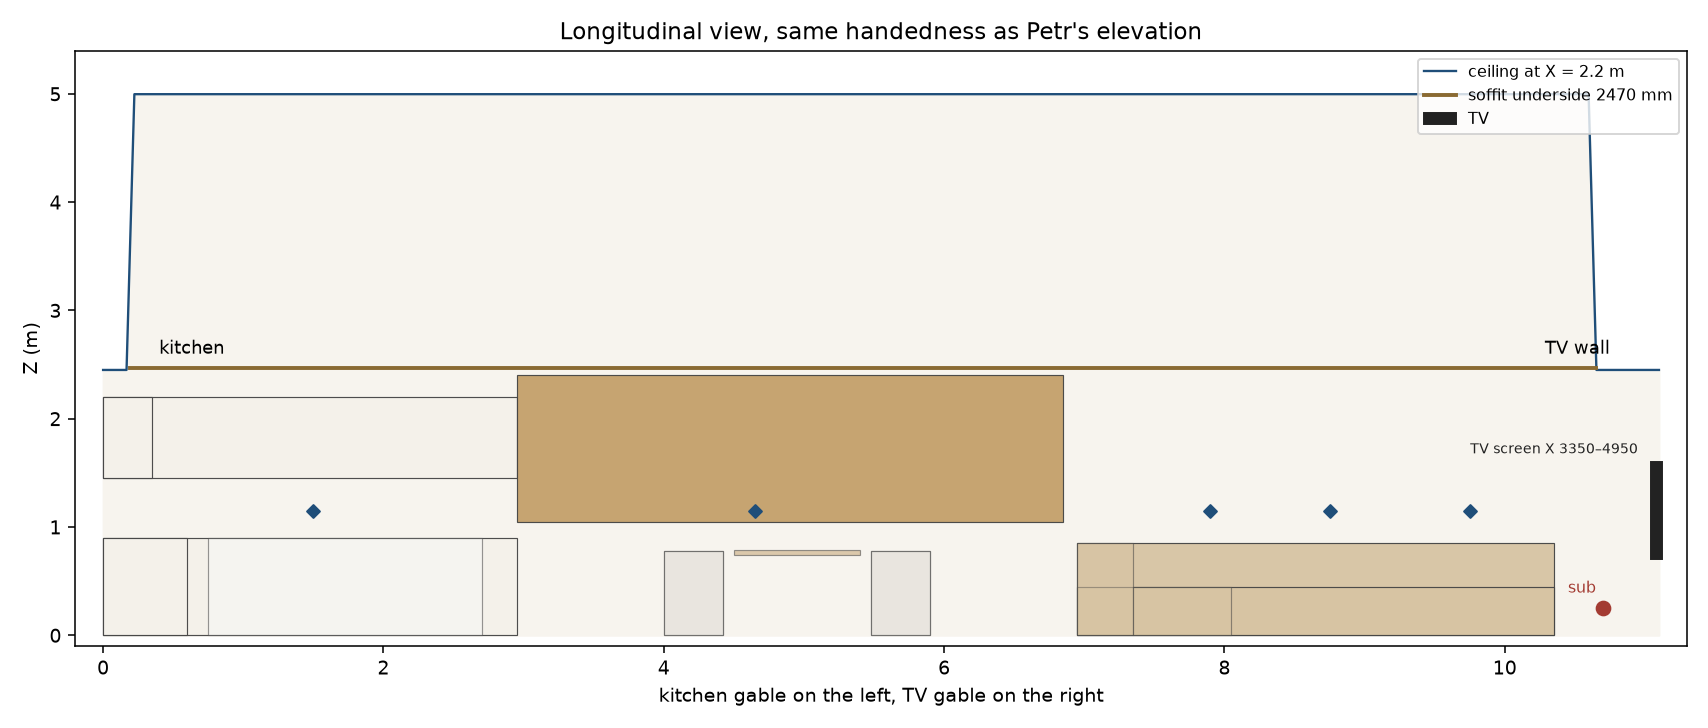
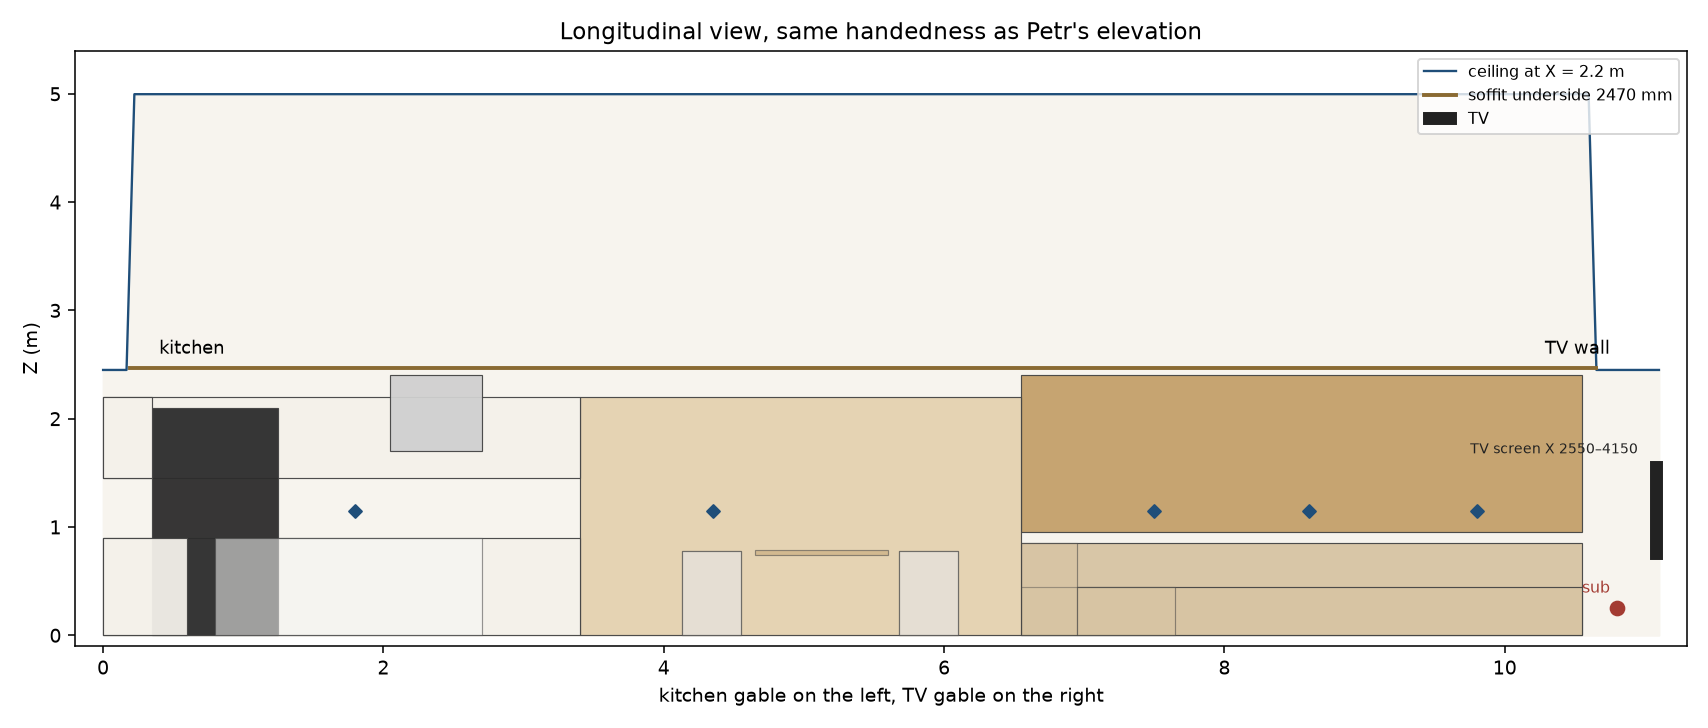
Match the obývák furniture to Petr's elevation.
The sofa is the 4.0 by 4.0 m L, with the lamella wall behind that run
and the sub in the cabinet-wall / TV-gable corner. No acoustic solve.

Changed region(s): [[0.2172, 0.5137, 0.9619, 0.8764], [0.0621, 0.544, 0.2172, 0.8764]]

diff --git a/src/blueprints/acoustics/roomwave/layout_review.py b/src/blueprints/acoustics/roomwave/layout_review.py
@@ -20,6 +20,9 @@ OUT = ROOT / "docs" / "acoustics"
 _FILL = {
     "sofa": "#d7c4a3",
     "kitchen": "#f4f1ea",
+    "tall": "#e4d2b0",
+    "fridge": "#2c2c2c",
+    "hood": "#d0d0d0",
     "island": "#f7f7f5",
     "table": "#c4a574",
     "chair": "#e6e2dc",
@@ -41,6 +44,7 @@ def write_sheets(dest: Path | None = None) -> list[Path]:
         _section_xz(shape, out / "layout-section-xz.png"),
         _section_long(shape, out / "layout-section-long.png"),
         _mesh_3d(shape, out / "layout-mesh-3d.png"),
+        _compare(shape, out / "layout-compare.png"),
     ]
     return paths
 
@@ -300,6 +304,154 @@ def _mesh_3d(shape: Shape, path: Path) -> Path:
     ax.view_init(elev=22, azim=-58)
     fig.tight_layout()
     fig.savefig(path, dpi=130)
+    plt.close(fig)
+    return path
+
+
+def _box_faces(box: Box) -> list[tuple[np.ndarray, np.ndarray, np.ndarray, np.ndarray]]:
+    x0, y0, z0, x1, y1, z1 = box.x, box.y, box.z, box.x1, box.y1, box.z1
+    p = lambda x, y, z: np.array([x, y, z], dtype=float)
+    return [
+        (p(x0, y0, z0), p(x1, y0, z0), p(x1, y1, z0), p(x0, y1, z0)),
+        (p(x0, y0, z1), p(x0, y1, z1), p(x1, y1, z1), p(x1, y0, z1)),
+        (p(x0, y0, z0), p(x0, y0, z1), p(x1, y0, z1), p(x1, y0, z0)),
+        (p(x0, y1, z0), p(x1, y1, z0), p(x1, y1, z1), p(x0, y1, z1)),
+        (p(x0, y0, z0), p(x0, y1, z0), p(x0, y1, z1), p(x0, y0, z1)),
+        (p(x1, y0, z0), p(x1, y0, z1), p(x1, y1, z1), p(x1, y1, z0)),
+    ]
+
+
+def _ceiling_quads(shape: Shape, x_near: float) -> list[tuple[np.ndarray, ...]]:
+    """Slope and soffit in front of the camera, split so the pitch reads."""
+    y0, y1 = shape.y_living, shape.y_kitchen
+    cuts = np.linspace(y0, y1, 8)
+    x0 = min(x_near, shape.x_false - 0.2)
+    quads = []
+    for a, b in zip(cuts, cuts[1:]):
+        z_near = shape.z_eave + (x0 / shape.x_false) * (shape.z_ridge - shape.z_eave)
+        quads.append((
+            np.array([x0, a, z_near]),
+            np.array([shape.x_false, a, shape.z_ridge]),
+            np.array([shape.x_false, b, shape.z_ridge]),
+            np.array([x0, b, z_near]),
+        ))
+        quads.append((
+            np.array([shape.x_false, a, shape.z_ridge]),
+            np.array([shape.x_soffit, a, shape.z_eave]),
+            np.array([shape.x_soffit, b, shape.z_eave]),
+            np.array([shape.x_false, b, shape.z_ridge]),
+        ))
+        quads.append((
+            np.array([shape.x_soffit, a, shape.z_eave]),
+            np.array([shape.x_soffit, a, shape.z_soffit]),
+            np.array([shape.x_soffit, b, shape.z_soffit]),
+            np.array([shape.x_soffit, b, shape.z_eave]),
+        ))
+        quads.append((
+            np.array([shape.x_soffit, a, shape.z_soffit]),
+            np.array([shape.x_wall, a, shape.z_soffit]),
+            np.array([shape.x_wall, b, shape.z_soffit]),
+            np.array([shape.x_soffit, b, shape.z_soffit]),
+        ))
+    return quads
+
+
+def _compare(shape: Shape, path: Path) -> Path:
+    """Wide view toward the cabinet wall, kitchen gable on the left, beside Petr's image."""
+    cam = np.array([0.35, 5.55, 1.35])
+    forward = np.array([1.0, 0.0, 0.12])
+    forward = forward / np.linalg.norm(forward)
+    up = np.array([0.0, 0.0, 1.0])
+    right = np.cross(forward, up)
+    right = right / np.linalg.norm(right)
+    up_cam = np.cross(right, forward)
+    fov = np.deg2rad(118.0)
+
+    def project(points: np.ndarray) -> tuple[np.ndarray, np.ndarray, float]:
+        rel = points - cam
+        depth = rel @ forward
+        horizontal = rel @ right
+        vertical = rel @ up_cam
+        scale = 1.0 / np.tan(fov / 2.0)
+        safe = np.maximum(depth, 1e-3)
+        u = horizontal / safe * scale
+        v = vertical / safe * scale
+        return u, v, depth
+
+    faces: list[tuple[float, np.ndarray, np.ndarray, str]] = []
+    for quad in _ceiling_quads(shape, 1.15):
+        pts = np.vstack(quad)
+        u, v, depth = project(pts)
+        if float(np.min(depth)) < 0.35:
+            continue
+        faces.append((float(np.mean(depth)), u, v, "#f3efe6"))
+    floor = (
+        np.array([1.15, 0.0, 0.0]),
+        np.array([shape.x_wall, 0.0, 0.0]),
+        np.array([shape.x_wall, shape.length, 0.0]),
+        np.array([1.15, shape.length, 0.0]),
+    )
+    u, v, depth = project(np.vstack(floor))
+    faces.append((float(np.mean(depth)), u, v, "#f7f5f2"))
+    for box in shape.boxes:
+        color = _FILL.get(box.name, "#dddddd")
+        for quad in _box_faces(box):
+            pts = np.vstack(quad)
+            u, v, depth = project(pts)
+            if float(np.min(depth)) < 0.25:
+                continue
+            faces.append((float(np.mean(depth)), u, v, color))
+    tv_x0, tv_x1, tz0, tz1 = shape.tv
+    tv = np.array([
+        [tv_x0, 0.04, tz0],
+        [tv_x1, 0.04, tz0],
+        [tv_x1, 0.04, tz1],
+        [tv_x0, 0.04, tz1],
+    ])
+    u, v, depth = project(tv)
+    faces.append((float(np.mean(depth)), u, v, "#1a1a1a"))
+    back = np.array([
+        [shape.x_wall, 0.0, 0.0],
+        [shape.x_wall, shape.length, 0.0],
+        [shape.x_wall, shape.length, shape.z_soffit],
+        [shape.x_wall, 0.0, shape.z_soffit],
+    ])
+    u, v, depth = project(back)
+    faces.append((float(np.mean(depth)) + 0.4, u, v, "#fbfbfb"))
+    sub = next(marker for marker in shape.sources if marker.name == "sub")
+    sub_box = Box("sub", sub.x - 0.18, sub.y - 0.18, 0.0, 0.36, 0.36, 0.40)
+    for quad in _box_faces(sub_box):
+        u, v, depth = project(np.vstack(quad))
+        if float(np.min(depth)) > 0.25:
+            faces.append((float(np.mean(depth)), u, v, "#a33b32"))
+    faces.sort(key=lambda item: item[0], reverse=True)
+
+    ref = Path("/workspace/obyvak-circled.jpg")
+    if ref.is_file():
+        fig, axes = plt.subplots(1, 2, figsize=(14.5, 5.6))
+        axes[0].imshow(plt.imread(ref))
+        axes[0].set_title("Petr's view, sub circled")
+        axes[0].axis("off")
+        ax = axes[1]
+    else:
+        fig, ax = plt.subplots(figsize=(12.4, 5.4))
+    for _depth, u, v, color in faces:
+        ax.fill(u, v, facecolor=color, edgecolor="#555555", lw=0.3)
+    su, sv, _sd = project(np.array([[sub.x, sub.y, 0.45]]))
+    ax.scatter(su, sv, s=80, c="#a33b32", zorder=6)
+    ax.annotate("sub", (su[0], sv[0]), textcoords="offset points", xytext=(-14, 8), color="#a33b32", fontsize=8)
+    # Person at the island, 1.75 m, for scale.
+    person = np.array([[2.35, 9.15, 0.0], [2.35, 9.15, 1.75]])
+    pu, pv, _pd = project(person)
+    ax.plot(pu, pv, color="#444", lw=3, solid_capstyle="round")
+    ax.scatter([pu[1]], [pv[1]], s=28, c="#444", zorder=5)
+    ax.set_aspect("equal")
+    ax.set_xlim(-1.05, 1.05)
+    ax.set_ylim(-0.48, 0.58)
+    ax.axis("off")
+    ax.set_title("Model, same viewpoint: cabinet wall, kitchen left, TV right")
+    fig.tight_layout()
+    fig.savefig(path, dpi=140)
     plt.close(fig)
     return path
 

diff --git a/src/blueprints/acoustics/roomwave/geometry.py b/src/blueprints/acoustics/roomwave/geometry.py
@@ -158,60 +158,63 @@ def load_shape() -> Shape:
     y_kitchen = length - params.predstena_kitchen * mm
     windows = tuple((y0 * mm, (y0 + width) * mm) for y0, width in params.eave_windows)
 
-    # Order along the cabinet wall, kitchen gable → TV gable, matching Petr's
-    # elevation (kitchen on the left of that drawing, TV on the right):
-    # kitchen run, book wall, sofa, then a gap at the TV wall for the sub.
-    # The written brief's 4.0 × 4.0 m sofa and the shelf "above the sofa" do
-    # not match that drawing; see docs/acoustics/LAYOUT.md.
-    sofa_y0, sofa_y1 = 0.75, 4.15
-    shelf_y0, shelf_y1 = 4.25, 8.15
-    kitchen_y0 = 8.15
+    # Cabinet wall, TV gable (Y = 0) toward kitchen. Petr's elevation has the
+    # kitchen on the left and the TV on the right. The sofa is his 4.0 × 4.0 m
+    # figure: long run on the back wall, TV end at the gable, chaise on the
+    # dining side toward the windows. The lamella wall is behind that run.
+    sofa_y0, sofa_y1 = 0.55, 4.55
     sofa = (
-        Box("sofa", x_wall - 0.40, sofa_y0, 0.0, 0.40, sofa_y1 - sofa_y0, 0.85),
-        Box("sofa", x_wall - 1.10, sofa_y0, 0.0, 0.70, sofa_y1 - sofa_y0, 0.45),
-        # Return toward the dining table (kitchen side of the sofa), 1.9 m
-        # into the room. The brief's 4 m return would cross the table.
-        Box("sofa", x_wall - 1.90, sofa_y1 - 0.40, 0.0, 0.80, 0.40, 0.85),
-        Box("sofa", x_wall - 1.90, sofa_y1 - 1.10, 0.0, 0.80, 0.70, 0.45),
+        Box("sofa", x_wall - 0.40, sofa_y0, 0.0, 0.40, 4.00, 0.85),
+        Box("sofa", x_wall - 1.10, sofa_y0, 0.0, 0.70, 4.00, 0.45),
+        Box("sofa", x_wall - 4.00, sofa_y1 - 0.40, 0.0, 2.90, 0.40, 0.85),
+        Box("sofa", x_wall - 4.00, sofa_y1 - 1.10, 0.0, 2.90, 0.70, 0.45),
     )
+    # Lamellas on the back wall, same run as the sofa, just above the back.
+    shelf_z0, shelf_z1 = 0.95, 2.40
+    shelf_box = (
+        Box("shelf", x_wall - 0.18, sofa_y0, shelf_z0, 0.18, 4.00, shelf_z1 - shelf_z0),
+    )
+    # Wood-panelled tall units behind the dining table, between kitchen and shelf.
+    tall = (
+        Box("tall", x_wall - 0.60, sofa_y1, 0.0, 0.60, 3.15, 2.20),
+    )
+    kitchen_y0 = sofa_y1 + 3.15
     kitchen = (
         Box("kitchen", x_wall - 0.60, kitchen_y0, 0.0, 0.60, length - kitchen_y0, 0.90),
         Box("kitchen", x_wall - 0.35, kitchen_y0, 1.45, 0.35, length - kitchen_y0, 0.75),
-        Box("kitchen", 0.45, length - 0.60, 0.0, x_wall - 0.60 - 0.45, 0.60, 0.90),
-        Box("kitchen", 0.45, length - 0.35, 1.45, x_wall - 0.60 - 0.45, 0.35, 0.75),
+        Box("fridge", x_wall - 0.70, 9.85, 0.0, 0.70, 0.90, 2.10),
+        Box("hood", x_wall - 1.05, 8.40, 1.70, 0.70, 0.65, 0.70),
+        Box("kitchen", 0.40, length - 0.60, 0.0, x_wall - 0.60 - 0.40, 0.60, 0.90),
+        Box("kitchen", 0.40, length - 0.35, 1.45, x_wall - 0.60 - 0.40, 0.35, 0.75),
     )
-    island = (Box("island", 1.85, 8.40, 0.0, 1.40, 1.95, 0.90),)
-    table = (Box("table", 2.20, 5.70, 0.74, 1.70, 0.90, 0.05),)
+    island = (Box("island", 1.55, 8.40, 0.0, 1.60, 1.90, 0.90),)
+    table = (Box("table", 2.05, 5.50, 0.74, 1.80, 0.95, 0.05),)
     chairs = tuple(
         Box("chair", x, y, 0.0, 0.42, 0.42, 0.78)
-        for x in (2.35, 3.30)
-        for y in (5.20, 6.68)
+        for x in (2.20, 3.25)
+        for y in (5.00, 6.55)
     )
-    # Book wall between the kitchen run and the sofa. 0.28 m deep so the
-    # elevation shows the books; the acoustic face is still the lamella/book mix.
-    shelf_box = (Box("shelf", x_wall - 0.28, shelf_y0, 1.05, 0.28, shelf_y1 - shelf_y0, 1.35),)
-    boxes = sofa + kitchen + island + table + chairs + shelf_box
+    boxes = sofa + shelf_box + tall + kitchen + island + table + chairs
 
-    # TV on the living gable, in front of the sofa, 1.60 m wide.
-    # Sub on the floor at the sofa's TV end, 0.40 m off that gable,
-    # under the screen edge nearer the sofa (not the window edge).
-    tv_x0, tv_x1 = 3.35, 4.95
+    # TV on the living gable. The low bench in the rendering is not in the model.
+    # Sub is the purple circle: floor, back-wall / TV-gable corner, 0.30 m from both.
+    tv_x0, tv_x1 = 2.55, 4.15
     sources = (
-        Marker("sub", 4.55, 0.40, 0.25, "sub"),
-        Marker("tv_l", tv_x0 + 0.15, 0.08, 1.15, "tv"),
-        Marker("tv_r", tv_x1 - 0.15, 0.08, 1.15, "tv"),
-        Marker("talker", 3.05, 5.35, 1.20, "talk"),
+        Marker("sub", x_wall - 0.30, 0.30, 0.25, "sub"),
+        Marker("tv_l", tv_x0 + 0.12, 0.08, 1.15, "tv"),
+        Marker("tv_r", tv_x1 - 0.12, 0.08, 1.15, "tv"),
+        Marker("talker", 2.95, 5.15, 1.20, "talk"),
     )
     seat_x = x_wall - 0.75
     receivers = (
-        Marker("sofa_1", seat_x, 1.35, 1.15, "sofa"),
-        Marker("sofa_2", seat_x, 2.35, 1.15, "sofa"),
-        Marker("sofa_3", seat_x, 3.20, 1.15, "sofa"),
-        Marker("dining", 3.05, 6.45, 1.15, "dining"),
-        Marker("island", 1.45, 9.60, 1.15, "island"),
+        Marker("sofa_1", seat_x, 1.30, 1.15, "sofa"),
+        Marker("sofa_2", seat_x, 2.50, 1.15, "sofa"),
+        Marker("sofa_3", seat_x, 3.60, 1.15, "sofa"),
+        Marker("dining", 2.95, 6.75, 1.15, "dining"),
+        Marker("island", 1.15, 9.30, 1.15, "island"),
     )
-    rug = (2.50, 5.35, 0.65, 4.25)
-    shelf = (shelf_y0, shelf_y1, 1.05, 2.40)
+    rug = (1.80, 5.20, 0.50, 4.60)
+    shelf = (sofa_y0, sofa_y1, shelf_z0, shelf_z1)
     return Shape(
         x_wall=x_wall,
         length=length,

diff --git a/src/blueprints/acoustics/roomwave/boundaries.py b/src/blueprints/acoustics/roomwave/boundaries.py
@@ -38,7 +38,7 @@ BOOK_SIGMA = 40_000.0
 BOOK_DEPTH = 0.12
 LAMELLA_GAP = 0.020
 
-_HARD = ("kitchen", "island", "table", "chair", "lid")
+_HARD = ("kitchen", "tall", "fridge", "hood", "island", "table", "chair", "lid")
 _FIXED_ALPHA = {"floor": FLOOR_ALPHA, "plaster": PLASTER_ALPHA, "glass": GLASS_ALPHA}
 
 

diff --git a/docs/acoustics/LAYOUT.md b/docs/acoustics/LAYOUT.md
@@ -1,8 +1,8 @@
 # Obývák layout for the wave model
 
-Review sheet before any acoustic solve. Kitchen gable is on the left of the plan and the long section, TV gable on the right, matching Petr's elevation.
+Review sheet. No acoustic solve on this furniture. Kitchen gable is on the left of the plan and the long view, TV gable on the right, as in Petr's elevation. The purple circle is the subwoofer: on the floor, in the cabinet-wall / TV-gable corner, at the TV end of the sofa.
 
-The shell (slopes, soffit, traps, windows) comes from `ObyvakParams`. The furniture is placed to match that elevation. Where the written brief and the elevation disagree, the elevation wins and the brief number is listed under Open points.
+The shell is `ObyvakParams`. The sofa size is Petr's 4.0 × 4.0 m, which overrides the scale of the sketch.
 
 ## Shell
 
@@ -16,52 +16,54 @@ The shell (slopes, soffit, traps, windows) comes from `ObyvakParams`. The furnit
 | Soffit underside | 2470 |
 | Living trap, from Y = 0, above Z = 2450 | 450 |
 | Kitchen trap, from Y = 11100, above Z = 2450 | 190 |
-| Windows on the window wall, sill at the floor, head | 2500 |
+| Windows on the window wall, head | 2500 |
 
-Pitch is across the width, not along the room. A cut along the length at one X is a level ceiling. The long section draws that level at X = 2200 mm (near the false ridge, about 5020 mm high) and, separately, the soffit underside at 2470 mm on the cabinet wall.
+The pitch runs across the width. Along the cabinet wall the ceiling of the room is the soffit underside, 2470 mm.
 
-Traps replace the air above 2450 mm at each end. Below that the gable wall is at Y = 0 and Y = 11100.
+## Furniture
 
-## Furniture, sources, ears
-
-Along the cabinet wall, from the kitchen gable toward the TV:
+Order on the cabinet wall, from the TV gable toward the kitchen.
 
 | Piece | X (mm) | Y (mm) | Z (mm) |
 | --- | --- | --- | --- |
-| Kitchen on the gable, base | 450–4750 | 10500–11100 | 0–900 |
-| Kitchen on the gable, uppers | 450–4750 | 10750–11100 | 1450–2200 |
-| Kitchen on the cabinet wall, base | 4750–5350 | 8150–11100 | 0–900 |
-| Kitchen on the cabinet wall, uppers | 5000–5350 | 8150–11100 | 1450–2200 |
-| Island | 1850–3250 | 8400–10350 | 0–900 |
-| Book wall, 280 mm deep | 5070–5350 | 4250–8150 | 1050–2400 |
-| Dining table top | 2200–3900 | 5700–6600 | 740–790 |
-| Sofa along the wall, back / seat | 4250–5350 | 750–4150 | seat 450, back 850 |
-| Sofa return, toward the table | 3450–5350 | 3050–4150 | seat 450, back 850 |
-| Rug | 2500–5350 | 650–4250 | floor |
-| TV screen, on the TV gable, no cabinet | 3350–4950 | on the wall | 700–1600 |
-| Subwoofer | 4550 | 400 | 250 |
-| TV speakers | 3500 and 4800 | 80 | 1150 |
-| Talker | 3050 | 5350 | 1200 |
-| Ears, three sofa seats | 4600 | 1350, 2350, 3200 | 1150 |
-| Ear, dining | 3050 | 6450 | 1150 |
-| Ear, island | 1450 | 9600 | 1150 |
+| Subwoofer, corner | 5050 | 300 | 250 |
+| Sofa long run, back and seat, 4000 mm | 4250–5350 | 550–4550 | seat 450, back 850 |
+| Sofa chaise, dining end, toward the windows | 1350–5350 | 3450–4550 | seat 450, back 850 |
+| Lamella wall, behind that run | 5170–5350 | 550–4550 | 950–2400 |
+| Tall wood units, behind the dining table | 4750–5350 | 4550–7700 | 0–2200 |
+| Kitchen base, cabinet wall | 4750–5350 | 7700–11100 | 0–900 |
+| Kitchen uppers, cabinet wall | 5000–5350 | 7700–11100 | 1450–2200 |
+| Fridge | 4650–5350 | 9850–10750 | 0–2100 |
+| Hood, in front of the uppers | 4300–5000 | 8400–9050 | 1700–2400 |
+| Kitchen base, kitchen gable | 400–4750 | 10500–11100 | 0–900 |
+| Kitchen uppers, kitchen gable | 400–4750 | 10750–11100 | 1450–2200 |
+| Island | 1550–3150 | 8400–10300 | 0–900 |
+| Dining table | 2050–3850 | 5500–6450 | 740–790 |
+| Rug, under the sofa | 1800–5200 | 500–4600 | floor |
+| TV, on the TV gable, no bench, no cabinet | 2550–4150 | on the wall | 800–1650 |
 
-The sub is 400 mm off the TV gable, at the sofa's TV end, under the screen edge nearer the sofa (X = 4550, screen runs 3350–4950). It is not in the cabinet-wall corner.
+The sofa bounding box is 4000 × 4000 mm. The long run ends at the TV side (Y = 550 mm, leaving the corner for the sub). The chaise is the dining end and reaches toward the windows.
 
-Chairs are 420 × 420 × 780 mm at the four sides of the table.
+The lamella wall is the same 4000 mm run as the sofa, starting just above the 850 mm back and stopping 70 mm short of the soffit. Drawn depth is 180 mm so the books show. Acoustically it is still wooden lamellas 20 mm off the wall, no wool, about half the shelves filled with books.
 
-## Open points
+The tall wood units between the kitchen and that shelf are hard cabinets. The low bench under the TV in the rendering is not in the model.
 
-1. The brief said an L-sofa of 4.0 × 4.0 m, arms about 1.1 m deep. The elevation shows a shorter run and a shallower return. The model uses 3400 mm along the wall, 1100 mm seat depth, and a 1900 mm return toward the table. A 4000 mm return would cross the table.
-2. The brief put a 3.9 × 1.5 m shelf on the back wall above the sofa, starting 1300 mm up. The elevation puts the book wall between the kitchen and the sofa. The model follows the elevation: 3900 mm long, from 1050 mm to 2400 mm (the soffit underside is 2470 mm, so 2800 mm is not available on this wall), 280 mm deep. The 20 mm lamella gap and the lack of wool behind it stay as the acoustic description of that face, for when the solve is allowed.
-3. The brief put the sub 300 mm from both the TV wall and the cabinet wall. The note on the elevation puts it at the sofa's TV end, under the left edge of the TV. This model uses the sofa-side edge of the screen. If the window-side edge was meant, the sub moves to X = 3350 mm, Y unchanged.
-4. TV size is assumed: 1600 mm wide, bottom at 700 mm, top at 1600 mm. The elevation shows a screen and no cabinet.
+Ears: sofa at X = 4600, Y = 1300 / 2500 / 3600, Z = 1150. Dining at (2950, 6750, 1150). Island at (1150, 9300, 1150). Talker at (2950, 5150, 1200). TV speakers at the screen edges, Y = 80, Z = 1150.
+
+## Residual differences
+
+- Hood, fridge, and the tall-unit run are sized from the elevation, not from a dimensioned drawing. Hood 700 × 650 mm. Fridge 900 × 700 × 2100 mm. Tall units 3150 mm along the wall.
+- TV width and height are assumed (1600 mm wide, 800–1650 mm). The rendering shows a screen on that gable and nothing under it.
+- No plants, no downlights, no rug pattern, no people except a 1750 mm scale figure in the perspective.
+- The lamella gap is 20 mm in the acoustic description. The solid in the view is 180 mm deep so the shelf is visible above the sofa back.
+- Ceiling in the perspective is the real slopes and the soffit. The rendering also shows the roof structure and lights, which are not furniture.
 
 ## Sheets
 
-- `layout-plan.png` — plan, kitchen left, TV right
-- `layout-section-xz.png` — slopes, false ridge, soffit step
-- `layout-section-long.png` — same handedness as the elevation
-- `layout-mesh-3d.png` — the surfaces the wave model will use
+- `layout-plan.png`
+- `layout-section-xz.png`
+- `layout-section-long.png`
+- `layout-compare.png` — view toward the cabinet wall, kitchen left, TV right
+- `layout-mesh-3d.png`
 
 No frequency sweep has been run on this layout.
